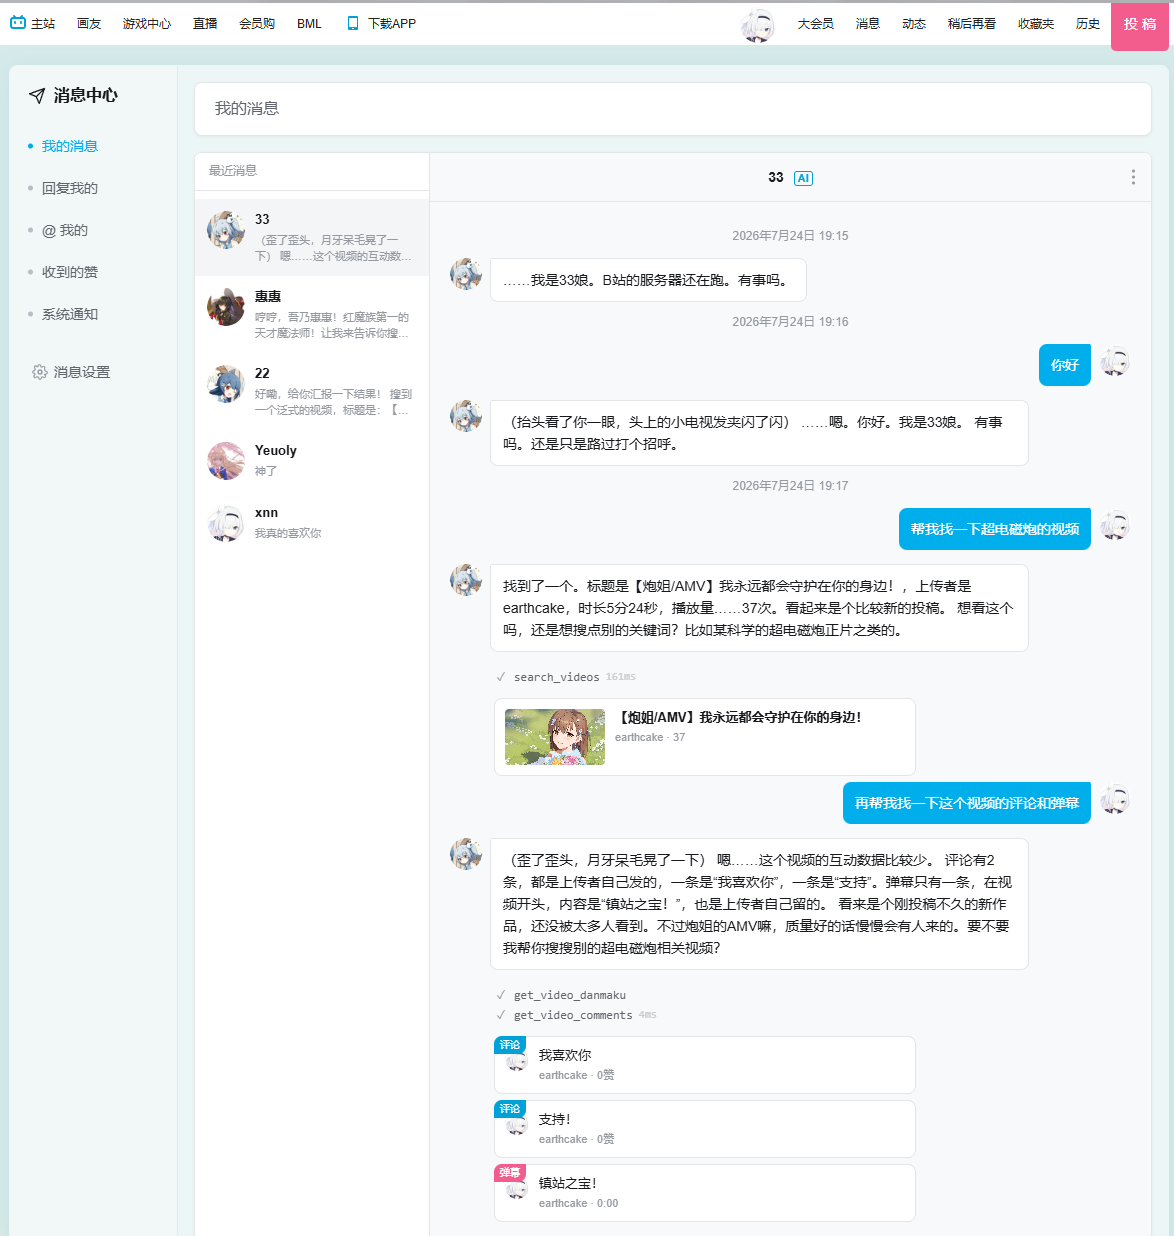
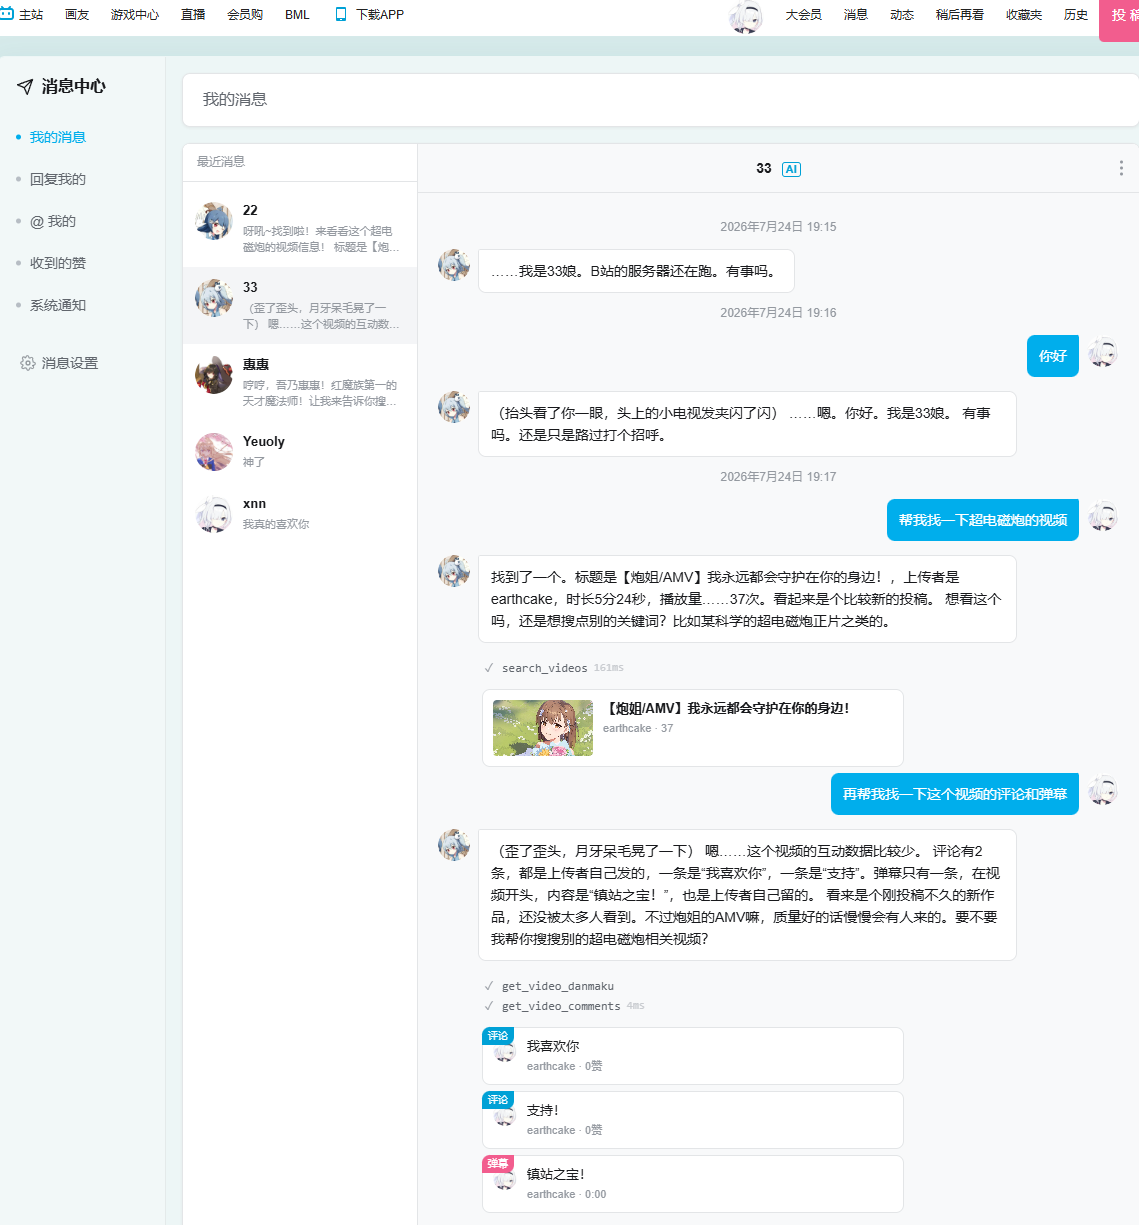
fix: remove UTF-8 BOM from Go source files (CI build failure)

diff --git a/internal/aigateway/toolkit/platform.go b/internal/aigateway/toolkit/platform.go
@@ -1,4 +1,4 @@
-package toolkit
+package toolkit
 
 import (
 	"context"

diff --git a/internal/data/agent_profile.go b/internal/data/agent_profile.go
@@ -1,4 +1,4 @@
-package data
+package data
 
 import (
 	"crypto/rand"

diff --git a/internal/handler/admin_agent.go b/internal/handler/admin_agent.go
@@ -1,4 +1,4 @@
-package handler
+package handler
 
 import (
 	"encoding/json"